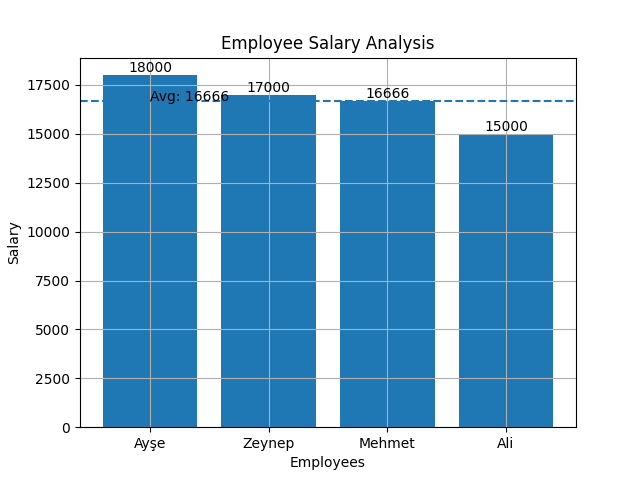
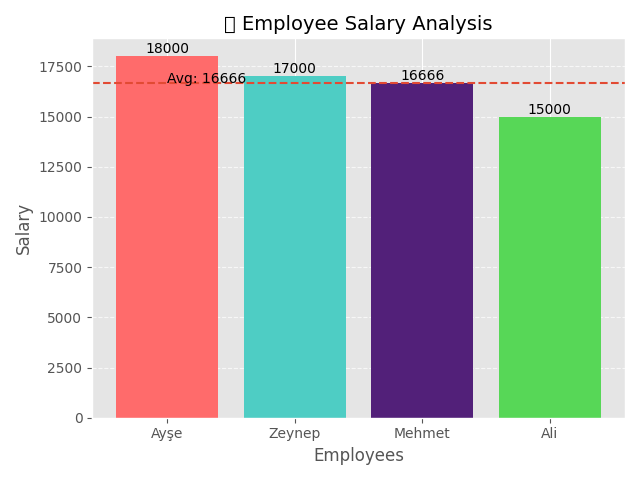
Improve chart styling with colors and layout

diff --git a/main.py b/main.py
@@ -28,25 +28,34 @@ df_sorted = df.sort_values(by="salary", ascending=False)
 names = df_sorted["name"]
 salaries = df_sorted["salary"]
 
+plt.style.use("ggplot")
+
 plt.figure()
 
-bars = plt.bar(names, salaries)
+# Renk paleti (gradient gibi)
+colors = ["#FF6B6B", "#4ECDC4", "#522079", "#57D757"]
 
-# Ortalama çizgisi
+bars = plt.bar(names, salaries, color=colors)
+
+# Ortalama çizgi
 avg_salary = df["salary"].mean()
 plt.axhline(avg_salary, linestyle='--')
 plt.text(0, avg_salary, f"Avg: {int(avg_salary)}")
 
-# Değerleri yaz
+# Değerleri barların üstüne yaz
 for bar in bars:
     yval = bar.get_height()
-    plt.text(bar.get_x() + bar.get_width()/2, yval, int(yval), ha='center', va='bottom')
+    plt.text(bar.get_x() + bar.get_width()/2, yval, int(yval),
+             ha='center', va='bottom', fontsize=10)
 
-plt.title("Employee Salary Analysis")
+# Başlık ve stil
+plt.title("💰 Employee Salary Analysis", fontsize=14)
 plt.xlabel("Employees")
 plt.ylabel("Salary")
 
-plt.grid()
+plt.grid(axis='y', linestyle='--', alpha=0.7)
+
+plt.tight_layout()
 
 plt.savefig("salary_chart.png")
 
